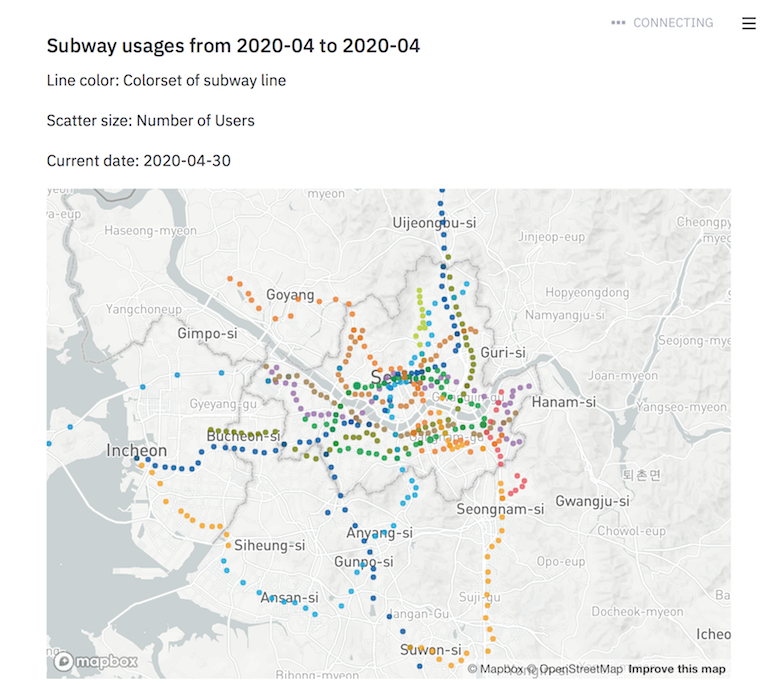
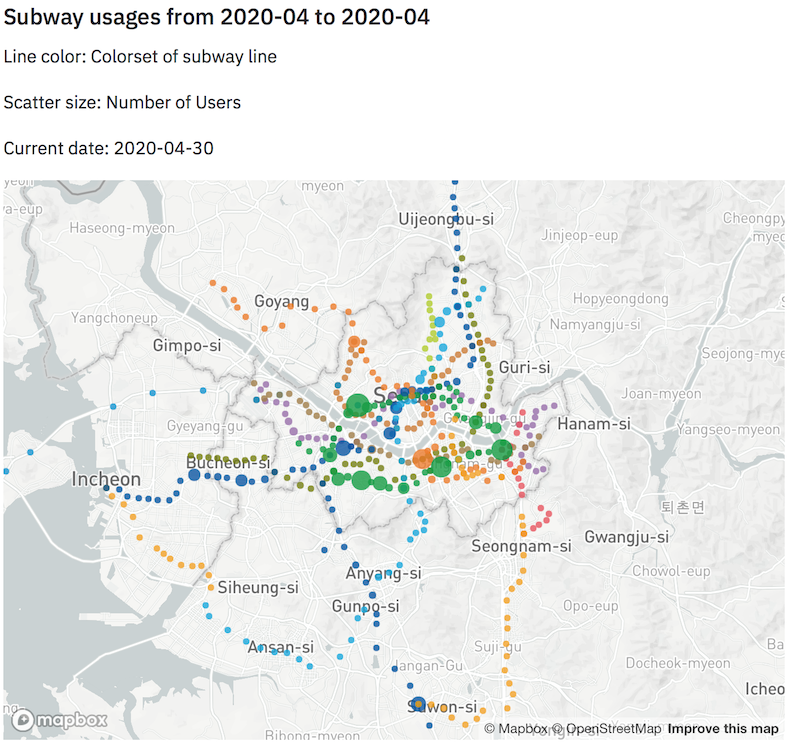
Scatter size changed

diff --git a/frontend.py b/frontend.py
@@ -77,7 +77,7 @@ def show_map(data):
         auto_highlight=True,
         # stroked=True,
         filled=True,
-        radius_scale=1000,
+        radius_scale=2500,
         radius_min_pixels=3,
         radius_max_pixels=100,
         get_fill_color='color',
